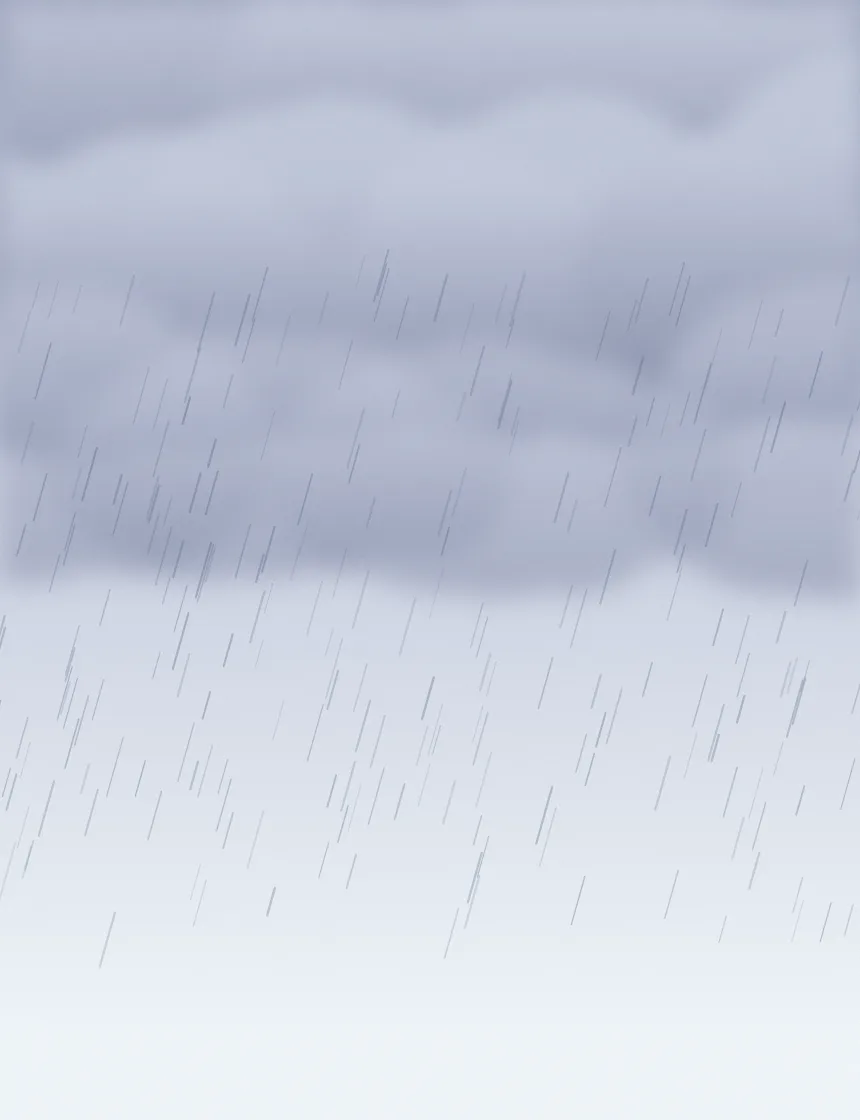
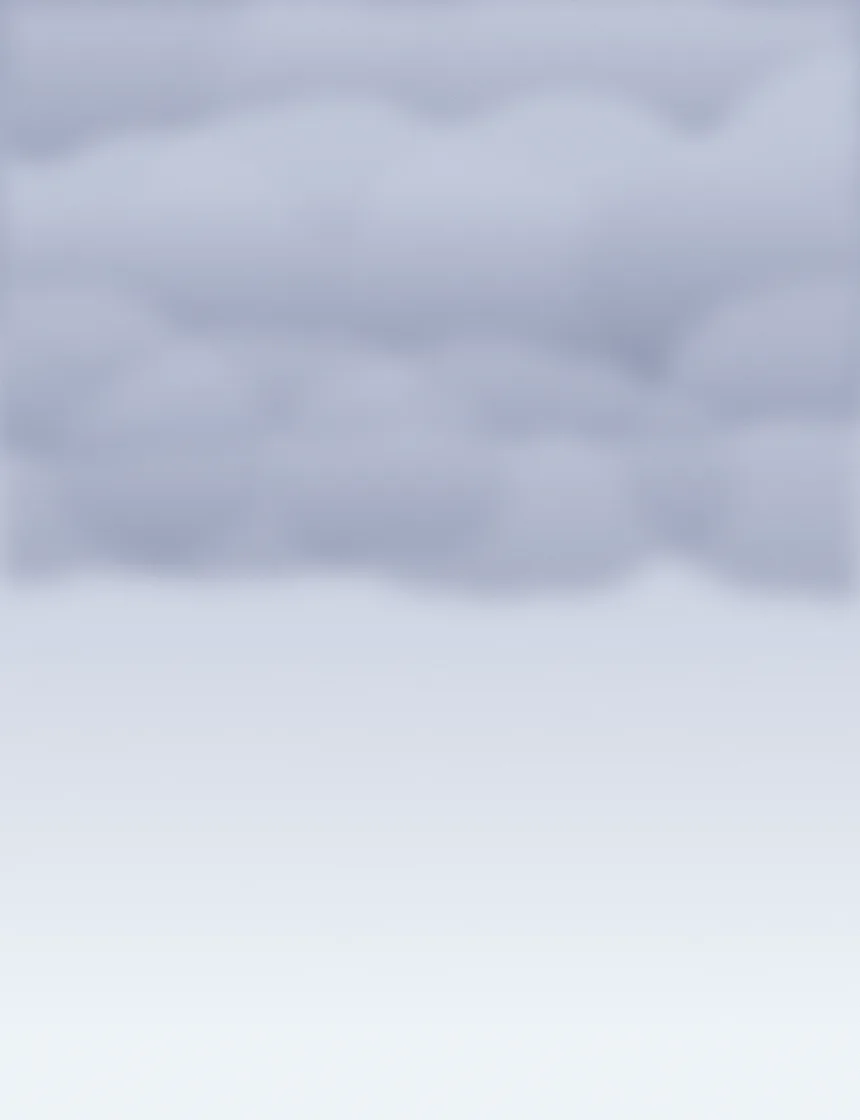
Rain and snow skies: everything that falls moves
The rain and snow sky images had raindrops and flakes painted in, which
sat still under the animated layer. The painter no longer draws them;
the animated layer is the only rain/snow, with a little more density
and depth (far drops shorter, fainter, slower). With Reduce Motion the
drops and flakes show as a still picture spread over the sky.

Claude-Session: https://claude.ai/code/session_01W8NyrPv72hfFY6JW6rNybQ

diff --git a/styles.css b/styles.css
@@ -145,7 +145,7 @@ a { color: var(--rain); }
 .fx .tw { width: 2.4px; height: 2.4px; border-radius: 50%; background: var(--fx-star); box-shadow: 0 0 6px 1px var(--fx-glow); opacity: .25; animation: tw var(--d) ease-in-out var(--delay) infinite; }
 .fx .tw.big { width: 3.2px; height: 3.2px; }
 @keyframes tw { 0%, 100% { opacity: .2; transform: scale(.8); } 45% { opacity: 1; transform: scale(1.15); } 60% { opacity: .85; } }
-.fx .drop { top: -40px; width: 1.3px; height: var(--len); border-radius: 1px; opacity: var(--o); background: linear-gradient(transparent, var(--fx-rain)); animation: fall var(--d) linear var(--delay) infinite; }
+.fx .drop { top: -40px; width: var(--w, 1.3px); height: var(--len); border-radius: 1px; opacity: var(--o); background: linear-gradient(transparent, var(--fx-rain)); animation: fall var(--d) linear var(--delay) infinite; }
 @keyframes fall { from { transform: translate(0, 0) rotate(14deg); } to { transform: translate(-150px, 620px) rotate(14deg); } }
 .fx .flake { top: -12px; width: var(--s); height: var(--s); border-radius: 50%; opacity: var(--o); background: var(--fx-snow); box-shadow: 0 0 0 .5px var(--fx-snow-edge); animation: snow var(--d) linear var(--delay) infinite; }
 @keyframes snow { 0% { transform: translate(0, 0); } 25% { transform: translate(var(--sway), 145px); } 50% { transform: translate(0, 290px); } 75% { transform: translate(calc(var(--sway) * -1), 435px); } 100% { transform: translate(0, 580px); } }
@@ -542,6 +542,9 @@ a { color: var(--rain); }
 
 @media (prefers-reduced-motion: reduce) {
   .fx i { animation: none !important; }
+  /* Still picture: drops and flakes spread over the sky instead of waiting above it. */
+  .fx .drop, .fx .flake { top: var(--y); }
+  .fx .drop { transform: rotate(14deg); }
   .curve .nowglow { animation: none; }
   .flip-inner { transition: none; }
   .pop[open] { animation: none; }

diff --git a/app.js b/app.js
@@ -114,16 +114,17 @@
         out += `<i class="tw${big ? ' big' : ''}" style="left:${f(rnd() * 100)}%;top:${f(Math.pow(rnd(), 1.4) * 52)}%;--d:${f(2.8 + rnd() * 3.4)}s;--delay:${f(-rnd() * 6)}s"></i>`;
       }
     } else if (kind === 'rain') {
-      const [n, sp, len] = { light: [26, 1.25, 16], moderate: [55, 0.95, 22], heavy: [100, 0.7, 28] }[lvl];
+      // Depth: far drops are shorter, fainter and slower; near ones longer, brighter and faster.
+      const [n, sp, len] = { light: [36, 1.25, 16], moderate: [72, 0.95, 22], heavy: [120, 0.7, 28] }[lvl];
       for (let i = 0; i < n; i++) {
-        const d = sp * (0.8 + rnd() * 0.4);
-        out += `<i class="drop" style="left:${f(rnd() * 130)}%;--len:${Math.round(len * (0.7 + rnd() * 0.6))}px;--d:${f(d)}s;--delay:${f(-rnd() * d)}s;--o:${f(0.35 + rnd() * 0.5)}"></i>`;
+        const near = rnd(), d = sp * (1.45 - near * 0.65);
+        out += `<i class="drop" style="left:${f(rnd() * 130)}%;--y:${f(rnd() * 80)}%;--len:${Math.round(len * (0.55 + near * 0.75))}px;--w:${f(0.9 + near * 0.7)}px;--d:${f(d)}s;--delay:${f(-rnd() * d)}s;--o:${f(0.25 + near * 0.6)}"></i>`;
       }
     } else {
       const [n, base] = { light: [18, 13], moderate: [36, 10], heavy: [64, 8] }[lvl];
       for (let i = 0; i < n; i++) {
         const near = rnd(), d = base * (1.4 - near * 0.6);
-        out += `<i class="flake" style="left:${f(rnd() * 100)}%;--s:${f(2 + near * 3.5)}px;--d:${f(d)}s;--delay:${f(-rnd() * d)}s;--sway:${Math.round(8 + rnd() * 16)}px;--o:${f(0.45 + near * 0.5)}"></i>`;
+        out += `<i class="flake" style="left:${f(rnd() * 100)}%;--y:${f(rnd() * 80)}%;--s:${f(2 + near * 3.5)}px;--d:${f(d)}s;--delay:${f(-rnd() * d)}s;--sway:${Math.round(8 + rnd() * 16)}px;--o:${f(0.45 + near * 0.5)}"></i>`;
       }
     }
     return `<div class="fx" data-key="${key}">${out}</div>`;

diff --git a/tools/paint-skies.js b/tools/paint-skies.js
@@ -221,26 +221,7 @@ function paint({ W, H, T, theme, time, scene }) {
     }
   }
 
-  if (scene === 'rain') {
-    const c = layer(), b = c.getContext('2d');
-    b.strokeStyle = T.rain; b.lineCap = 'round';
-    for (let i = 0; i < 260; i++) {
-      const x = rnd() * W * 1.1, y = H * 0.22 + rnd() * H * 0.6, len = 26 + rnd() * 34;
-      b.globalAlpha = 0.35 + rnd() * 0.65; b.lineWidth = 1 + rnd() * 1.4;
-      b.beginPath(); b.moveTo(x, y); b.lineTo(x - len * 0.28, y + len); b.stroke();
-    }
-    ctx.save(); ctx.filter = 'blur(0.6px)'; ctx.drawImage(c, 0, 0); ctx.restore();
-  }
-  if (scene === 'snow') {
-    for (let i = 0; i < 170; i++) {
-      const x = rnd() * W, y = H * 0.12 + rnd() * H * 0.68, r = 1.6 + Math.pow(rnd(), 2) * 5;
-      const c = ctx;
-      c.save(); c.filter = `blur(${r > 4.5 ? 2 : 0.6}px)`;
-      c.fillStyle = T.snowEdge; c.beginPath(); c.arc(x, y + 0.8, r + 0.6, 0, 7); c.fill();
-      c.fillStyle = T.snow; c.beginPath(); c.arc(x, y, r, 0, 7); c.fill();
-      c.restore();
-    }
-  }
+  // Rain and snow are not painted: the app animates them over the sky (styles.css .fx), so nothing looks stuck.
 
   // Fine grain so the gradients do not band
   const img = ctx.getImageData(0, 0, W, H), d = img.data, amp = T.grain;

diff --git a/sw.js b/sw.js
@@ -1,6 +1,6 @@
 // App-shell cache. Forecast data lives in localStorage, so the API is never cached here.
 // Bump VERSION whenever a shell file changes.
-const VERSION = 'sw-v73';
+const VERSION = 'sw-v74';
 const SHELL = [
   './',
   'index.html',
